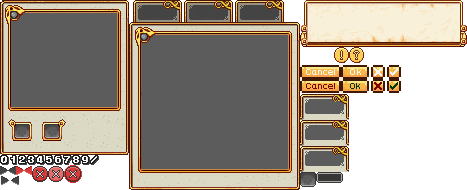
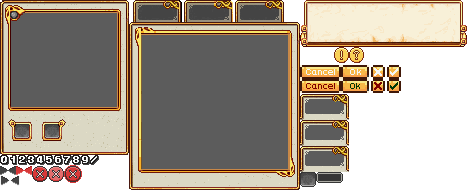
Shop Inventory and Data GUI Display - Node Updates

diff --git a/client/js/interface/shop.js b/client/js/interface/shop.js
@@ -2,7 +2,7 @@ define(['jquery', './container/container'], function($, Container) {
 
     return Class.extend({
 
-        init: function(game) {
+        init: function(game, intrface) {
             var self = this;
 
             self.game = game;
@@ -12,6 +12,7 @@ define(['jquery', './container/container'], function($, Container) {
             self.inventory = $('#shopInventorySlots');
 
             self.player = game.player;
+            self.interface = intrface;
 
             self.container = null;
 
@@ -61,7 +62,7 @@ define(['jquery', './container/container'], function($, Container) {
 
                 itemImage = $('<div id="shopItemImage' + i + '" class="shopItemImage"></div>');
                 itemCount = $('<div id="shopItemCount' + i + '" class="shopItemCount"></div>');
-                itemName = $('<div id="shopItemName' + i + '" class=shopItemName></div>')
+                itemName = $('<div id="shopItemName' + i + '" class=shopItemName></div>');
 
                 itemImage.css('background-image', self.container.getImageFormat(self.getScale(), string));
                 itemCount.html(count);
@@ -72,6 +73,19 @@ define(['jquery', './container/container'], function($, Container) {
                     count: count
                 });
 
+                shopItem.append(itemImage, itemCount, itemName);
+
+                self.getShopList().append(shopItem);
+            }
+
+            var inventoryItems = self.interface.bank.getInventoryList(),
+                inventorySize = self.interface.inventory.getSize();
+
+            for (var j = 0; j < inventorySize; j++) {
+                var item = $(inventoryItems[j]).clone(),
+                    slot = item.find('#bankInventorySlot' + j);
+
+                self.getInventoryList().append(slot);
             }
         },
 

diff --git a/server/js/minigames/impl/teamwar.js b/server/js/minigames/impl/teamwar.js
@@ -1,5 +1,7 @@
 var Minigame = require('../minigame'),
-    Data = require('../../../data/minigames.json');
+    Data = require('../../../data/minigames.json'),
+    Messages = require('../../network/messages'),
+    Packets = require('../../network/packets');
 
 module.exports = TeamWar = Minigame.extend({
 
@@ -12,7 +14,64 @@ module.exports = TeamWar = Minigame.extend({
 
         self._super(self.data.id, self.data.name);
 
+        self.lobby = {};
 
+        self.redTeam = {};
+        self.blueTeam = {};
+    },
+
+    add: function(team, player) {
+        var self = this;
+
+        if (self.inTeam(player, team))
+            return;
+
+        team[player.instance] = player;
+
+        self.removeFromLobby(player);
+    },
+
+    addToLobby: function(player) {
+        var self = this;
+
+
+    },
+
+    remove: function(player) {
+        var self = this;
+
+        /**
+         * We are removing the player from the game.
+         * Meaning we will have to push him into the lobby.
+         */
+
+        if (player.team === 'red')
+            delete self.redTeam[player.instance];
+        else
+            delete self.blueTeam[player.instance];
+    },
+
+    removeFromLobby: function(player) {
+        var self = this;
+
+        if (!self.inLobby(player))
+            return;
+
+        delete self.lobby[player.instance];
+
+
+    },
+
+    inTeam: function(player, team) {
+        return player.instance in team;
+    },
+
+    inGame: function(player) {
+        return player.instance in this.redTeam || player.instance in this.blueTeam;
+    },
+
+    inLobby: function(player) {
+        return player.instance in this.lobby;
     }
 
 });

diff --git a/client/js/interface/profile/pages/settings.js b/client/js/interface/profile/pages/settings.js
@@ -4,6 +4,8 @@ define(['jquery', '../page'], function($, Page) {
 
     return Class.extend({
 
+        //TODO - Hide crpyto mining option on mobiles and completely disable it.
+
         init: function(game) {
             var self = this;
 
@@ -160,18 +162,20 @@ define(['jquery', '../page'], function($, Page) {
                 self.setName(!active);
             });
 
-            self.cryptoCheck.click(function() {
-                var active = self.cryptoCheck.hasClass('active');
+            if (!self.renderer.mobile) {
+                self.cryptoCheck.click(function() {
+                    var active = self.cryptoCheck.hasClass('active');
 
-                self.cryptoCheck.toggleClass('active');
-                self.setCrypto(!active);
+                    self.cryptoCheck.toggleClass('active');
+                    self.setCrypto(!active);
 
-                if (active)
-                    self.game.crypto.stop();
-                else
-                    self.game.loadCrypto();
+                    if (active)
+                        self.game.crypto.stop();
+                    else
+                        self.game.loadCrypto();
 
-            });
+                });
+            }
 
             if (self.getSound())
                 self.soundCheck.addClass('active');

diff --git a/server/js/network/messages.js b/server/js/network/messages.js
@@ -83,7 +83,7 @@ Messages.Movement = Message.extend({
     },
 
     serialize: function() {
-        return [Packets.Movement, [this.opcode, this.data]];
+        return [Packets.Movement, this.opcode, this.data];
     }
 });
 
@@ -127,6 +127,7 @@ Messages.Animation = Message.extend({
 
 });
 
+// TODO - Revise this when going over combat.
 Messages.Combat = Message.extend({
 
     init: function(opcode, attackerId, targetId, hitData) {
@@ -137,7 +138,7 @@ Messages.Combat = Message.extend({
     },
 
     serialize: function() {
-        return [Packets.Combat, [this.opcode, this.attackerId, this.targetId, this.hitData]];
+        return [Packets.Combat, this.opcode, this.attackerId, this.targetId, this.hitData];
     }
 
 });
@@ -414,6 +415,19 @@ Messages.PVP = Message.extend({
 });
 
 Messages.Shop = Message.extend({
+
+    init: function(opcode, info) {
+        this.opcode = opcode;
+        this.info = info;
+    },
+
+    serialize: function() {
+        return [Packets.Shop, this.opcode, this.info];
+    }
+
+});
+
+Messages.Minigame = Message.extend({
 
     init: function(opcode, info) {
         this.opcode = opcode;

diff --git a/client/css/interface.css b/client/css/interface.css
@@ -272,7 +272,7 @@
 .inventorySlots {
     position: absolute;
     top: 13%;
-    left: 6%;
+    left: 14%;
 }
 
 #enchantInventorySlots {
@@ -464,6 +464,14 @@
     position: absolute;
     top: 0;
     right: 100%;
+}
+
+#shopContainer {
+    position: absolute;
+    top: 8%;
+    width: 85%;
+    height: 80%;
+    left: 8%;
 }
 
 @media only screen and (min-width: 1501px) {
@@ -1607,12 +1615,6 @@
         background: url("../img/2/containers.png") -258px -44px;;
     }
 
-    #shopContainer {
-        width: 80%;
-        height: 60%;
-        left: 10%;
-    }
-
     #shopInventoryContainer {
         width: 258px;
         height: 310px;
@@ -1628,14 +1630,14 @@
     .shopItemImage {
         width: 32px;
         height: 32px;
-        boreder: 1px solid #373737;
+        border: 1px solid #373737;
     }
 
     .shopItemName {
         position: absolute;
         left: 30%;
         width: 30px;
-        height 100%;
+        height: 100%;
         font-size: 12px;
     }
 

diff --git a/client/js/network/messages.js b/client/js/network/messages.js
@@ -197,10 +197,11 @@ define(function() {
 
         receiveMovement: function(data) {
             var self = this,
-                movementData = data.shift();
+                opcode = data.shift(),
+                info = data.shift();
 
             if (self.movementCallback)
-                self.movementCallback(movementData);
+                self.movementCallback(opcode, info);
         },
 
         receiveTeleport: function(data) {
@@ -218,7 +219,7 @@ define(function() {
             if (self.despawnCallback)
                 self.despawnCallback(id);
         },
-
+        
         receiveCombat: function(data) {
             var self = this,
                 combatData = data.shift();

diff --git a/server/js/game/entity/character/player/player.js b/server/js/game/entity/character/player/player.js
@@ -53,6 +53,7 @@ module.exports = Player = Character.extend({
         self.newGroup = false;
 
         self.cryptoInterval = null;
+        self.team = null;
 
         self.disconnectTimeout = null;
         self.timeoutDuration = 1000 * 60 * 10; //10 minutes
@@ -72,7 +73,6 @@ module.exports = Player = Character.extend({
         self.acceptedTrade = false;
         self.invincible = false;
         self.noDamage = false;
-
         self.isGuest = false;
 
         self.pvp = false;

diff --git a/client/js/game.js b/client/js/game.js
@@ -347,9 +347,7 @@ define(['./renderer/renderer', './utils/storage',
                 self.interface.profile.update();
             });
 
-            self.messages.onMovement(function(data) {
-                var opcode = data.shift(),
-                    info = data.shift();
+            self.messages.onMovement(function(opcode, info) {
 
                 switch(opcode) {
                     case Packets.MovementOpcode.Move:

diff --git a/server/js/game/entity/character/player/containers/inventory/inventory.js b/server/js/game/entity/character/player/containers/inventory/inventory.js
@@ -58,12 +58,8 @@ module.exports = Inventory = Container.extend({
         if (!index)
             index = self.getIndex(id);
 
-        log.info('passed1');
-
         if (!self._super(index, id, count))
             return;
-
-        log.info('passed2')
 
         self.owner.send(new Messages.Inventory(Packets.InventoryOpcode.Remove, {
             index: parseInt(index),

diff --git a/client/js/controllers/interface.js b/client/js/controllers/interface.js
@@ -114,7 +114,7 @@ define(['jquery', '../interface/inventory',
             var self = this;
 
             if (!self.shop)
-                self.shop = new Shop(self.game);
+                self.shop = new Shop(self.game, self);
         },
 
         loadNotifications: function() {

diff --git a/server/js/network/packets.js b/server/js/network/packets.js
@@ -41,7 +41,8 @@ var Packets = {
     Click: 39,
     Warp: 40,
     Crypto: 41,
-    Shop: 42
+    Shop: 42,
+    Minigame: 43
 };
 
 Packets.IntroOpcode = {
